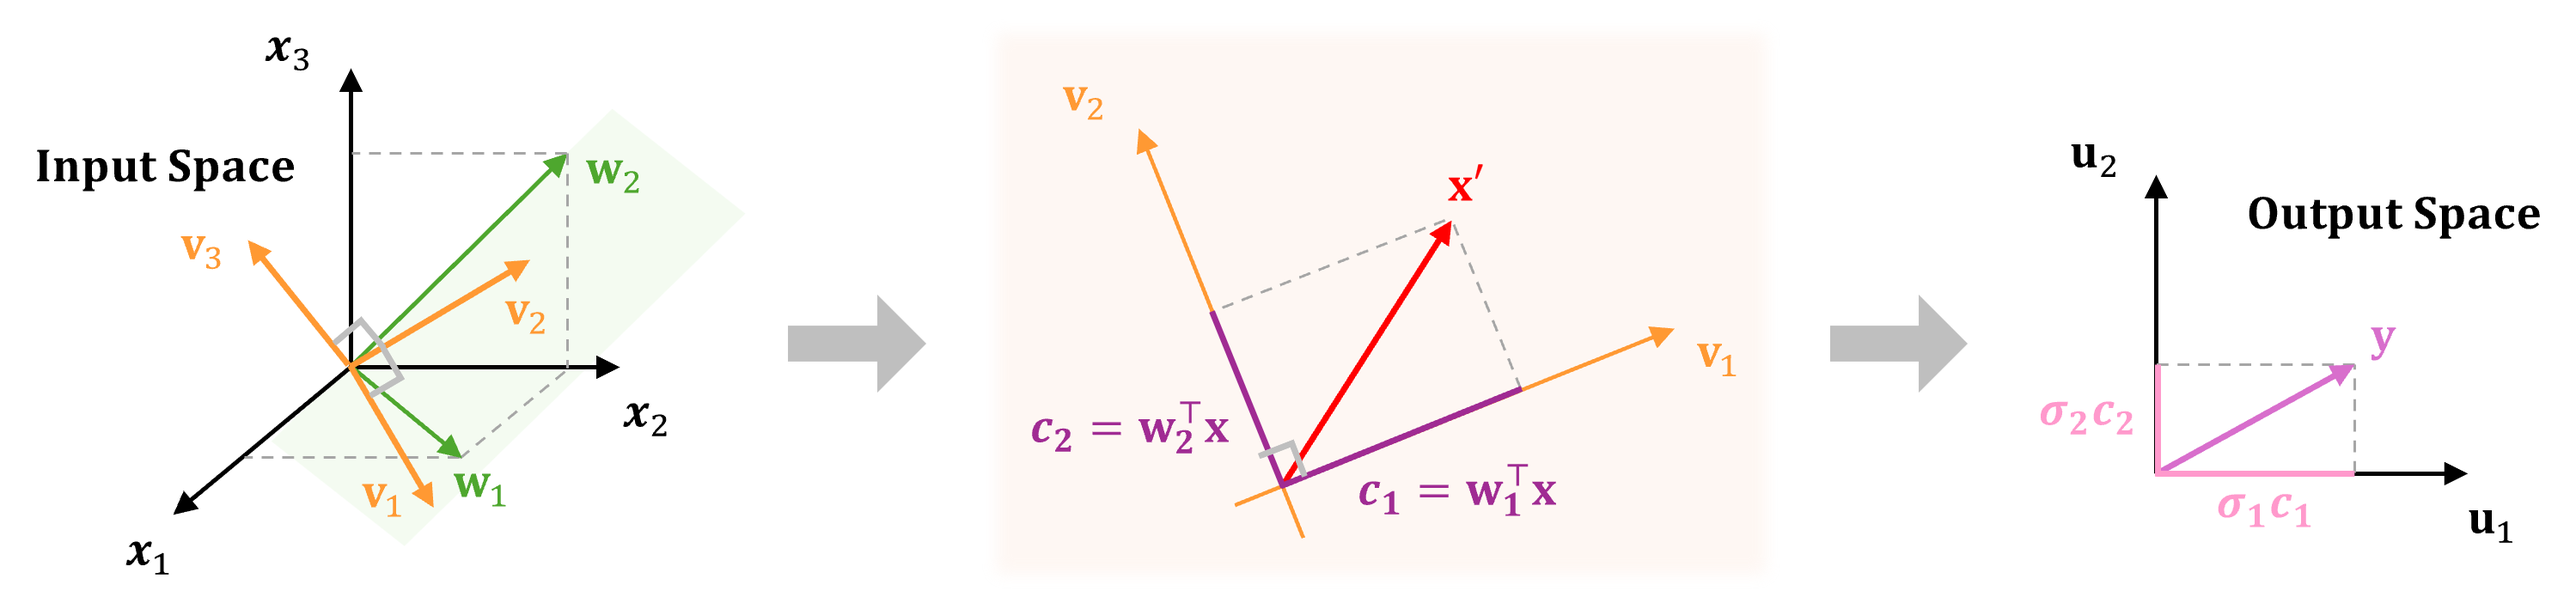
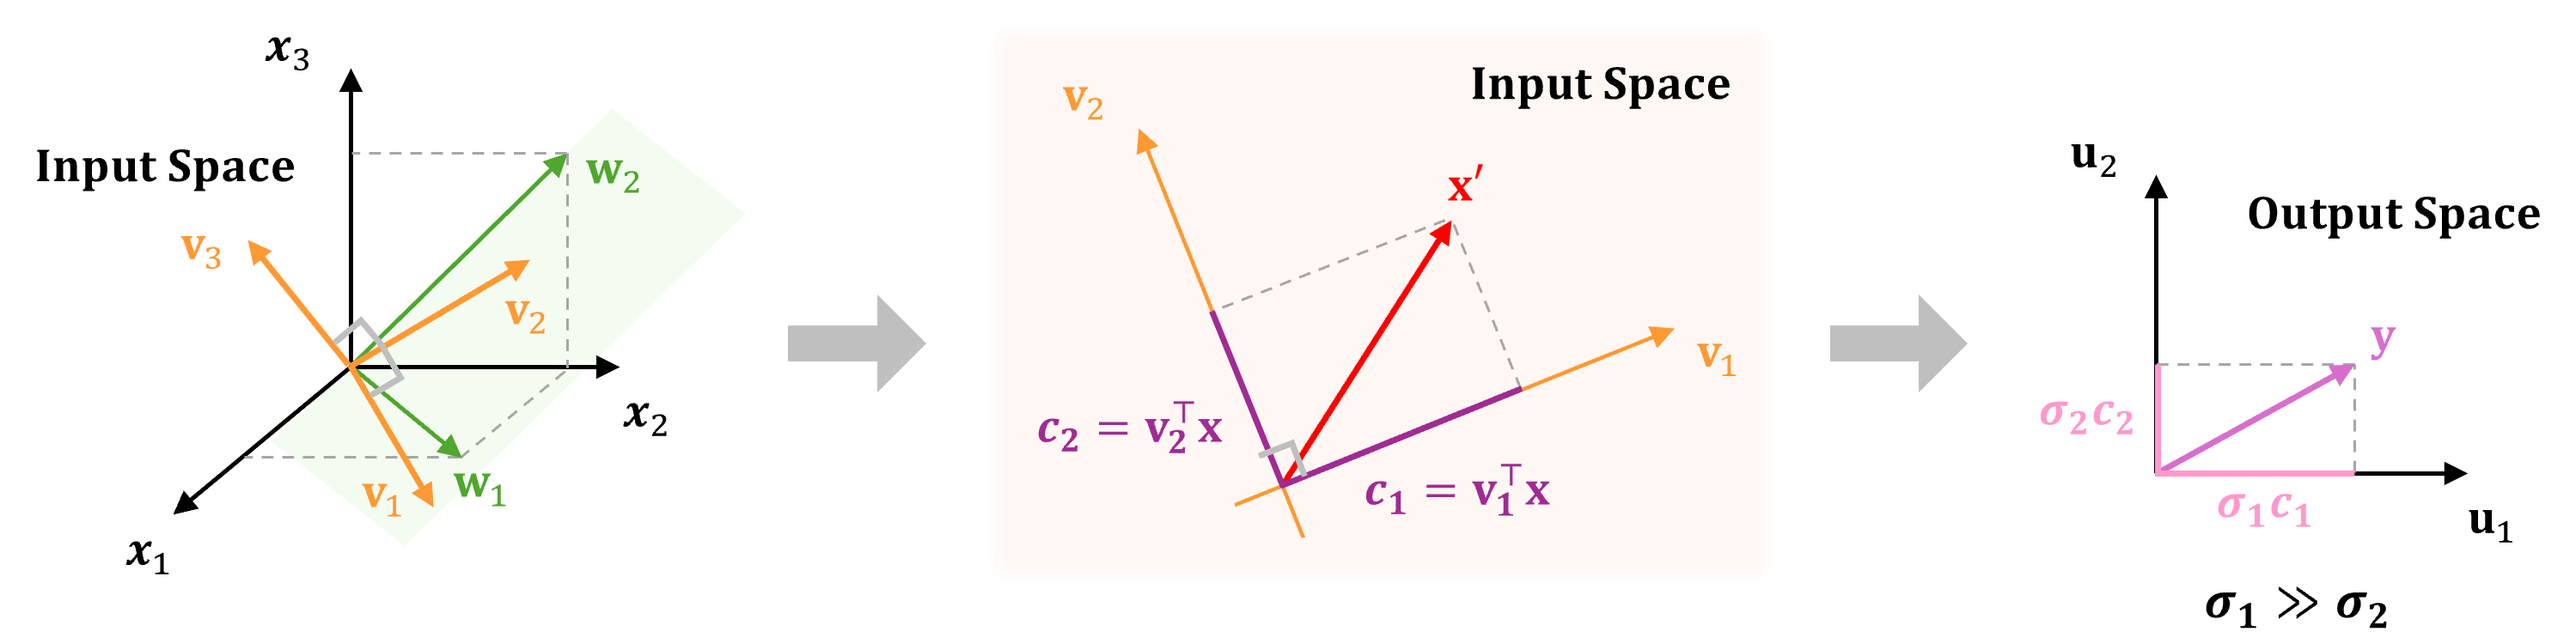
all

diff --git a/_posts/Mathematics/Linear_Algebra/2025-08-05-ML_SVD.md b/_posts/Mathematics/Linear_Algebra/2025-08-05-ML_SVD.md
@@ -140,15 +140,42 @@ W=\begin{bmatrix}
 \in\mathbb{R}^{2\times 3}
 $$
 
-예를 들어 `걷고 있는가` 행은 다리 $x_1$과 몸통 $x_2$를 크게 반영하고, `무슨 종인가` 행은 몸통 $x_2$와 귀 $x_3$를 크게 반영하는 식이다.
+예를 들어 `걷고 있는가`라는 Feature를 감지하는 행은 다리 $x_1$과 몸통 $x_2$를 크게 반영하고, `무슨 종인가`라는 Feature를 감지하는 행은 몸통 $x_2$와 귀 $x_3$를 크게 반영하는 식이다.
 
 그런데 이 행벡터들은 서로 직교한다는 보장이 없다.
 <br>
 걷기를 판단하려 해도, 종을 판단하려 해도 몸통 정보는 필요하므로, 위의 예시에서 두 행벡터는 $x_2$에 대해 동일한 방향의 성분을 공유한다.
 
-![fig4](Mathematics/Linear_Algebra/ML_SVD-4.png){: style="display:block; margin:0 auto; width:80%;"}
+![fig4](Mathematics/Linear_Algebra/ML_SVD-4.png){: style="display:block; margin:0 auto; width:90%;"}
 
-이처럼 여러 뉴런이 비슷한 Feature를 함께 사용하면서 감지기들이 겹치고 중복될 수 있다.
+이처럼 여러 가중치 벡터가 비슷한 Feature를 함께 사용하면서 감지기들이 겹치고 중복될 수 있다.
+
+### SVD를 왜 하는가
+
+#### 1. 입력과 출력은 다른 공간이다
+
+가중치 행렬 $W$는 입력 공간에서 출력 공간으로 매핑하는 선형사상이다.
+<br>
+이때 입력 공간과 출력 공간은 서로 다른 공간이다. (차원조차 다를 수 있음)
+
+따라서 하나의 기저로는 두 공간을 동시에 담을 수 없고, 입력 공간을 정리할 기저와 출력 공간을 정리할 기저가 각각 필요하다.
+
+SVD에서 $V$는 입력 공간의 기저, $U$는 출력 공간의 기저이므로, 두 공간을 각자의 기저로 따로 정리할 수 있다.
+
+#### 2. 크기 정보를 $\Sigma$ 한 곳에 모은다
+
+정규직교 기저로의 좌표 변환은 길이와 각도를 보존한다.
+<br>
+즉 $U$와 $V$는 방향만 바꾸고 크기는 전혀 건드리지 않으므로, 크기(중요도) 정보는 전부 $\Sigma$ 한 곳에 모인다.
+
+게다가 $\Sigma$는 대각행렬이므로, 그 크기 정보가 방향끼리 섞이지 않고 $\sigma_i$ 하나씩으로 분리된다.
+<br>
+<span style="background-color:#fff5b1">$\sigma_i$는 $\mathbf{v}_i$ 방향 입력이 출력 크기에 기여하는 정도를 직접 나타내기 때문에</span>, 다음과 같이 해석할 수 있다.
+
+- **큰 $\sigma$:** 출력에 크게 반영되는 방향
+- **작은 $\sigma$:** 버려도 출력이 거의 변하지 않는 방향
+
+이것이 Low-Rank Approximation이 가능한 이유다.
 
 ### SVD
 
@@ -168,25 +195,23 @@ $$
     c_i=\mathbf{v}_i^\top\mathbf{x}
     $$
 
-    각 좌표 $c_i$는 입력이 패턴 $\mathbf{v}_i$를 얼마나 담고 있는가를 의미한다.
+    각 좌표 <span style="background-color:#fff5b1">$c_i$는 입력이 패턴 $\mathbf{v}_i$를 얼마나 담고 있는가</span>를 의미한다.
 
-- **Left Singular Vector:** 패턴 $\mathbf{v}_i$가 감지되었을 때, 그 신호가 어떤 출력 뉴런들로 분배되는지를 나타낸다.
+- **Left Singular Vector:** 패턴 <span style="background-color:#fff5b1">$\mathbf{v}_i$가 감지되었을 때, 그 신호가 어떤 출력 뉴런들로 분배되는지</span>를 나타낸다.
 
     $$
     \mathbf{y}=(\sigma_1 c_1)\mathbf{u}_1+(\sigma_2 c_2)\mathbf{u}_2+\cdots
     $$
 
-그리고 두 축 사이에서 특이값 $\sigma_i$는 각 패턴의 반영 세기를 결정한다.
+그리고 두 축 사이에서 <span style="background-color:#fff5b1">특이값 $\sigma_i$는 각 패턴의 반영 세기를 결정</span>한다.
 <br>
 큰 $\sigma$에 해당하는 $\mathbf{v}_i$는 해당 layer가 민감하게 반응하는 입력 패턴이고, $\sigma\approx0$에 해당하는 $\mathbf{v}_i$ 방향의 입력은 해당 layer가 무시하는 입력 패턴이다.
 
-![fig5](Mathematics/Linear_Algebra/ML_SVD-5.png){: style="display:block; margin:0 auto; width:80%;"}
+![fig5](Mathematics/Linear_Algebra/ML_SVD-5.png){: style="display:block; margin:0 auto; width:90%;"}
 
-위 예시의 가중치 행렬 $W$를 실제로 분해해 보자.
+위 예시의 가중치 행렬 $W=\begin{bmatrix}1&1&0\\\\0&1&1\end{bmatrix}$를 실제로 SVD하면 다음과 같다.
 
 $$
-W=\begin{bmatrix}1&1&0\\0&1&1\end{bmatrix}
-\quad\to\quad
 \sigma_1=\sqrt3,\quad\sigma_2=1,\quad\sigma_3=0
 $$
 
@@ -201,6 +226,22 @@ $$
 \mathbf{u}_2=\frac{1}{\sqrt2}\begin{bmatrix}1\\-1\end{bmatrix}
 $$
 
-- $\mathbf{v}_1$ (`동물이 있다`): 두 감지기가 공유하던 몸통($x_2$)을 중심으로, 겹치는 부분이 한 방향으로 뭉친 공통 패턴이다. 두 뉴런이 함께 의존하므로 가장 큰 특이값을 가지며, 이 layer가 가장 민감하게 반응하는 입력이다.
-- $\mathbf{v}_2$ (`다리 쪽이냐 귀 쪽이냐`): 공유 성분인 몸통은 $0$으로 빠지고, 다리($+$)와 귀($-$)를 맞세우는 대비 패턴이다. 두 뉴런의 출력을 서로 다르게 만들어주는 정보가 여기에 실린다.
-- $\mathbf{v}_3$ (`무시되는 방향`): $W\mathbf{v}_3=\mathbf{0}$으로, 이 방향의 입력은 출력에 아무 영향도 주지 못한다. 감지기가 $2$개뿐이므로 $3$차원 입력 중 한 방향은 반드시 버려지는데($\text{rank}(W)=2$), 그 방향이 바로 $\mathbf{v}_3$이다.
+이때, Right Singular Vector들이 각각 다음의 의미를 담고 있다고 가정해 보자.
+
+- $\mathbf{v}_1$: `동물이 있다` **(공통 패턴)**
+- $\mathbf{v}_2$: `다리 쪽이냐 귀 쪽이냐` **(대비 패턴)**
+- $\mathbf{v}_3$: `무시되는 방향`
+
+$\mathbf{v}_1$은 두 행벡터가 겹치던 부분이 한 방향으로 뭉친 공통 패턴으로, 둘이 공유하던 $x_2$의 비중이 가장 크다.
+<br>
+두 뉴런이 함께 의존하는 방향이므로 가장 큰 특이값 $\sigma_1=\sqrt3$을 가지며, 이 layer가 가장 민감하게 반응하는 입력 패턴이 된다.
+
+$\mathbf{v}_2$는 공유 성분인 $x_2$가 $0$으로 빠지고, 다리($+$)와 귀($-$)를 맞세우는 대비 패턴이다.
+<br>
+입력이 다리 위주인지 귀 위주인지를 가르는 정보로, 두 뉴런의 출력을 서로 다르게 만들어주는 역할을 한다.
+
+$\mathbf{v}_3$는 $\sigma_3=0$에 대응하는, 이 layer가 완전히 무시하는 방향이다.
+<br>
+이 방향의 입력은 아무리 강하게 들어와도 출력에 아무 영향을 주지 못한다.
+<br>
+행벡터가 $2$개뿐이므로 $3$차원 입력 중 한 방향은 반드시 버려지는데, 그 방향이 바로 $\mathbf{v}_3$이다.
